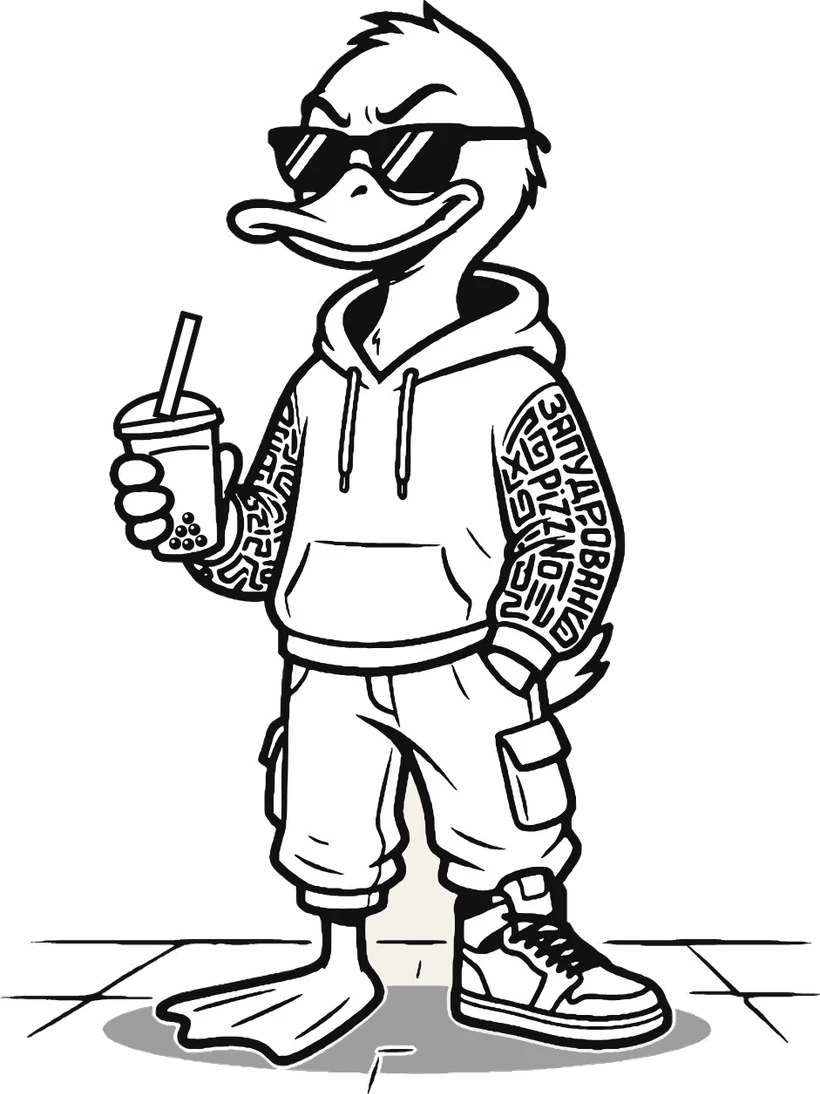
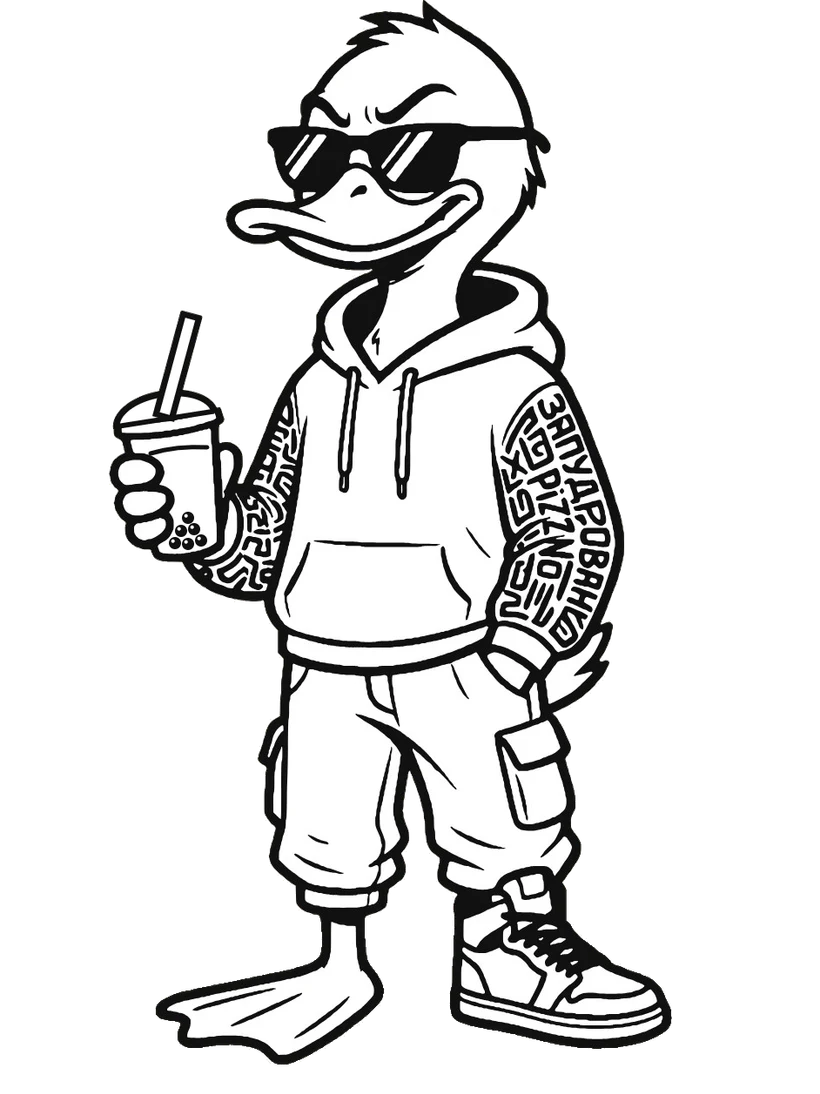
Static hero with a separate floor, poke-to-talk duck, tongue and shades frames

diff --git a/main.js b/main.js
@@ -47,138 +47,68 @@
   const top = document.querySelector('.top');
   let lastY = 0;
   addEventListener('scroll', () => {
-    if (pressing) return;
     const y = scrollY;
     top.classList.toggle('is-solid', y > 40);
     top.classList.toggle('is-hidden', y > 400 && y > lastY);
     lastY = y;
   }, { passive: true });
 
-  /* ---------- hero duck: the menu bar slides down like a ceiling and squashes it ---------- */
-  const track = document.querySelector('.hero-track');
+  /* ---------- hero duck: stands still, sways on its own floor, hops and talks when poked ---------- */
   const heroEl = document.querySelector('.hero');
   const avatar = document.querySelector('.avatar');
-  const topBar = document.querySelector('.top');
-  const duckImg = avatar.querySelector('.avatar__f');
-  const HEAD_TOP = 0.02;   // top of the duck's head as a share of its box
-  const MIN_SQUASH = 0.4;  // how flat the duck gets at the end of the press
-  const lerp = (a, b, t) => a + (b - a) * t;
-  function ceilingAt(p, barH, headY, floorY) {
-    // slab bottom: rest → touches the head → presses down to 40 % height → holds
-    const lowest = floorY - (floorY - headY) * MIN_SQUASH;
-    const k = [[0, barH], [0.16, headY], [0.75, lowest], [1, lowest]];
-    for (let i = 1; i < k.length; i++) {
-      if (p <= k[i][0]) { const t = (p - k[i - 1][0]) / (k[i][0] - k[i - 1][0]); return lerp(k[i - 1][1], k[i][1], t); }
-    }
-    return lowest;
-  }
-  function setPose(pose) {
-    if (avatar.dataset.pose === pose) return;
-    avatar.dataset.pose = pose;
-    heroEl.dataset.pose = pose;
-    avatar.classList.remove('is-hit', 'is-hi');
-    void avatar.offsetWidth;
-    if (pose !== 'idle') avatar.classList.add('is-hit');
-  }
-  function squashDuck(s) {
-    // cartoon squash: flatter and a bit wider, anchored at the feet
-    duckImg.style.transform = s >= 0.999 ? '' : `scale(${(1 + (1 - s) * 0.45).toFixed(3)}, ${s.toFixed(3)})`;
-  }
-  // The slab also flattens the big words it passes over (they squash toward their baseline).
-  const halves = [...document.querySelectorAll('.hero__half')];
-  function squashWords(slabBottom) {
-    halves.forEach((h) => {
-      const top = h.offsetTop + heroEl.getBoundingClientRect().top + h.parentElement.offsetTop;
-      const bottom = top + h.offsetHeight;
-      const MIN = 0.16;
-      if (slabBottom <= top) { h.style.transform = ''; return; }
-      const raw = (bottom - slabBottom) / h.offsetHeight;
-      // fully flattened words stick to the underside of the slab and ride down with it
-      const dy = raw < MIN ? slabBottom - (bottom - MIN * h.offsetHeight) : 0;
-      h.style.transform = `translateY(${dy.toFixed(1)}px) scaleY(${Math.max(MIN, raw).toFixed(3)})`;
-    });
-  }
-
-  let pressing = false;
-  function updatePress() {
-    if (reduced) return;
-    const room = track.offsetHeight - innerHeight;
-    const trackTop = track.getBoundingClientRect().top;
-    const p = room > 0 ? Math.min(1, Math.max(0, -trackTop / room)) : 0;
-    const inTrack = trackTop <= 0 && -trackTop < room;
-    const box = avatar.getBoundingClientRect();
-    const barH = topBar.offsetHeight;
-    const headY = box.top + box.height * HEAD_TOP, floorY = box.bottom;
-    if (p > 0.01 && inTrack) {
-      const bottom = Math.max(barH, ceilingAt(p, barH, headY, floorY));
-      topBar.classList.remove('is-return', 'is-hidden');
-      topBar.classList.add('is-press');
-      topBar.style.transform = `translateY(${Math.round(bottom - barH)}px)`;
-      pressing = true;
-      const s = Math.min(1, Math.max(MIN_SQUASH, (floorY - bottom) / (floorY - headY)));
-      squashDuck(s);
-      setPose(s > 0.995 ? 'idle' : 'press');
-      squashWords(bottom);
-    } else if (pressing) {
-      // leaving the hero: the slab flies back up and the duck pops back
-      pressing = false;
-      topBar.classList.add('is-return');
-      topBar.classList.remove('is-press');
-      topBar.style.transform = '';
-      squashWords(0);
-      squashDuck(1);
-      setPose('idle');
-    } else if (p <= 0.01) {
-      squashDuck(1);
-      setPose('idle');
-    }
-  }
-  let ticking = false;
-  const onPressScroll = () => { if (!ticking) { ticking = true; requestAnimationFrame(() => { ticking = false; updatePress(); }); } };
-  addEventListener('scroll', onPressScroll, { passive: true });
-  addEventListener('resize', onPressScroll);
-  updatePress();
-
-  // the duck leans a little toward the cursor
   const body = avatar.querySelector('.avatar__body');
+  const bubble = avatar.querySelector('.avatar__hi');
+  const LINES = {
+    uk: ['привіт!', 'бабл-ті?', 'кря!', 'пиши «АУДИТ»', 'автоматизую!', 'ще раз?'],
+    en: ['hi!', 'boba?', 'quack!', 'type “AUDIT”', 'I automate!', 'again?'],
+  };
+  let line = 0, hiTimer;
+  function poke() {
+    const list = LINES[root.lang === 'en' ? 'en' : 'uk'];
+    bubble.textContent = list[line % list.length];
+    line++;
+    avatar.classList.remove('is-hi');
+    void avatar.offsetWidth; // restart the hop
+    avatar.classList.add('is-hi');
+    clearTimeout(hiTimer);
+    hiTimer = setTimeout(() => { avatar.classList.remove('is-hi'); bubble.textContent = ''; }, 1800);
+  }
+  avatar.querySelector('.avatar__hit').addEventListener('click', poke);
+
+  // the duck leans toward the cursor; its floor stays put
   if (!reduced && matchMedia('(hover: hover)').matches) {
     heroEl.addEventListener('mousemove', (e) => {
       const x = e.clientX / innerWidth - 0.5;
-      body.style.rotate = `${(x * 6).toFixed(1)}deg`;
+      body.style.rotate = `${(x * 7).toFixed(1)}deg`;
     });
     heroEl.addEventListener('mouseleave', () => { body.style.rotate = ''; });
   }
 
-  let hiTimer;
-  function sayHi() {
-    if (avatar.dataset.pose !== 'idle') return;
-    avatar.classList.remove('is-hi');
-    void avatar.offsetWidth; // restart the hop animation
-    avatar.classList.add('is-hi');
-    clearTimeout(hiTimer);
-    hiTimer = setTimeout(() => avatar.classList.remove('is-hi'), 1800);
-  }
-  const hit = avatar.querySelector('.avatar__hit');
-  hit.addEventListener('mouseenter', sayHi);
-  hit.addEventListener('click', sayHi);
-
-  /* ---------- intro duck: waves on hover or tap, card tilts toward the cursor ---------- */
+  /* ---------- intro duck: sticks its tongue out on hover or tap ---------- */
   const face = document.querySelector('.face');
   let hovering = false;
   const setFace = (state) => { face.dataset.face = state; };
-  face.addEventListener('mouseenter', () => { hovering = true; setFace('wave'); });
-  face.addEventListener('mouseleave', () => { hovering = false; setFace('idle'); face.style.transform = ''; });
+  face.addEventListener('mouseenter', () => { hovering = true; setFace('tongue'); });
+  face.addEventListener('mouseleave', () => { hovering = false; setFace('idle'); });
   face.addEventListener('click', () => {
-    setFace('wave');
-    setTimeout(() => { if (!hovering) setFace('idle'); }, 1600);
+    setFace('tongue');
+    setTimeout(() => { if (!hovering) setFace('idle'); }, 1400);
   });
-  if (!reduced) {
-    face.addEventListener('mousemove', (e) => {
-      const r = face.getBoundingClientRect();
-      const x = (e.clientX - r.left) / r.width - 0.5, y = (e.clientY - r.top) / r.height - 0.5;
-      face.style.transform = `perspective(900px) rotateY(${x * 8}deg) rotateX(${-y * 6}deg)`;
-    });
+
+  /* ---------- thanks duck: grabs the shades and lifts them ---------- */
+  const shades = document.querySelector('.shades');
+  let shadeTimers = [];
+  const clearShades = () => { shadeTimers.forEach(clearTimeout); shadeTimers = []; };
+  function liftShades(hold) {
+    clearShades();
+    shades.dataset.shades = 'grab';
+    shadeTimers.push(setTimeout(() => { shades.dataset.shades = 'lift'; }, 260));
+    if (hold) shadeTimers.push(setTimeout(() => { shades.dataset.shades = 'idle'; }, 2200));
   }
+  shades.addEventListener('mouseenter', () => liftShades(false));
+  shades.addEventListener('mouseleave', () => { clearShades(); shades.dataset.shades = 'idle'; });
+  shades.addEventListener('click', () => liftShades(true));
+  shades.addEventListener('keydown', (e) => { if (e.key === 'Enter' || e.key === ' ') { e.preventDefault(); liftShades(true); } });
 
   /* ---------- mobile: swipe carousels get dots + a "swipe" hint ---------- */
   document.querySelectorAll('[data-swipe]').forEach((rail) => {
@@ -207,7 +137,7 @@
   const tabs = [...tabbar.querySelectorAll('[data-tab]')];
   const sections = tabs.map((t) => document.getElementById(t.dataset.tab));
   function syncTabs() {
-    tabbar.classList.toggle('is-on', scrollY > track.offsetHeight - innerHeight * 0.4);
+    tabbar.classList.toggle('is-on', scrollY > heroEl.offsetHeight - innerHeight * 0.4);
     const mid = innerHeight * 0.45;
     let active = null;
     sections.forEach((s, i) => { const r = s.getBoundingClientRect(); if (r.top < mid && r.bottom > mid) active = tabs[i]; });
@@ -241,6 +171,7 @@
       hero.querySelectorAll('.reveal').forEach((r) => r.classList.add('is-in'));
       avatar.classList.add('is-drop');
       setTimeout(() => avatar.classList.remove('is-drop'), 1100);
+      setTimeout(poke, reduced ? 0 : 1000); // says hi once after landing
     }, reduced ? 0 : 260);
     setTimeout(() => loader.remove(), 1100);
     startLenis();

diff --git a/index.html b/index.html
@@ -54,7 +54,6 @@
 <main id="top">
 
   <!-- HERO: big split word with a figure in the middle (ref 1) -->
-  <div class="hero-track">
   <section class="slide hero" aria-label="Портфоліо">
     <svg class="squig squig--a" aria-hidden="true"><use href="#squig"/></svg>
     <svg class="squig squig--b" aria-hidden="true"><use href="#squig"/></svg>
@@ -63,13 +62,14 @@
         <span class="mask hero__word"><span data-en="Port">Порт</span></span>
         <small class="reveal" data-en="Websites · Apps">Сайти · Застосунки</small>
       </div>
-      <figure class="hero__figure avatar reveal" data-pose="idle">
-        <button type="button" class="avatar__hit" aria-label="Привітатися з качкою / Say hi to the duck"></button>
+      <figure class="hero__figure avatar reveal">
+        <img class="avatar__floor" src="img/duck-floor.webp" alt="" width="820" height="1094">
+        <button type="button" class="avatar__hit" aria-label="Тицьни качку / Poke the duck"></button>
         <div class="avatar__squash"><div class="avatar__body">
           <img class="avatar__f" src="img/duck-full.webp" alt="Качка pizno, талісман студії" width="820" height="1094" fetchpriority="high">
         </div></div>
-        <span class="avatar__hi script" aria-hidden="true" data-en="hi!">привіт!</span>
-        <span class="hero__note script" aria-hidden="true" data-en="scroll ↓">гортай ↓</span>
+        <span class="avatar__hi script" aria-live="polite"></span>
+        <span class="hero__note script" aria-hidden="true" data-en="poke me ↑">тицьни мене ↑</span>
       </figure>
       <div class="hero__half hero__half--r">
         <span class="mask hero__word"><span data-en="folio">фоліо</span></span>
@@ -81,7 +81,6 @@
       <a class="btn btn--accent reveal" href="https://t.me/Pa9krat" target="_blank" rel="noopener"><svg aria-hidden="true"><use href="#i-tg"/></svg><span data-en="Free audit on Telegram">Безкоштовний аудит у Telegram</span></a>
     </div>
   </section>
-  </div>
 
   <div class="tape" aria-hidden="true"><div class="tape__run">
     <span data-en="Websites">Сайти</span><i>✦</i><span data-en="Apps">Застосунки</span><i>✦</i><span data-en="Telegram bots">Telegram-боти</span><i>✦</i><span data-en="Requests to Telegram">Заявки в Telegram</span><i>✦</i><span data-en="AI assistants">ШІ-асистенти</span><i>✦</i><span data-en="Automation">Автоматизації</span><i>✦</i>
@@ -93,7 +92,8 @@
     <div class="intro">
       <div class="intro__card reveal">
         <div class="intro__mark face" data-face="idle">
-          <img class="face__f" src="img/duck-waist.webp" alt="Качка pizno з бабл-ті" width="760" height="918" loading="lazy">
+          <img class="face__f" data-f="idle" src="img/duck-waist.webp" alt="Качка pizno з бабл-ті" width="760" height="900" loading="lazy">
+          <img class="face__f" data-f="tongue" src="img/duck-tongue.webp" alt="" width="760" height="900" loading="lazy">
           <span class="script face__tag" data-en="hover me">наведи на мене</span>
         </div>
       </div>
@@ -386,7 +386,11 @@
     <svg class="squig" style="top:16%;left:10%;transform:rotate(-18deg)" aria-hidden="true"><use href="#squig"/></svg>
     <svg class="squig" style="top:30%;right:9%;transform:rotate(20deg)" aria-hidden="true"><use href="#squig"/></svg>
     <div class="wrap">
-      <img class="thanks__duck reveal" src="img/duck-badge.webp" alt="" width="200" height="202" loading="lazy">
+      <figure class="thanks__duck shades reveal" data-shades="idle" tabindex="0" aria-label="Качка знімає окуляри / The duck lifts its shades">
+        <img data-s="idle" src="img/duck-bust.webp" alt="" width="460" height="500" loading="lazy">
+        <img data-s="grab" src="img/duck-grab.webp" alt="" width="460" height="500" loading="lazy">
+        <img data-s="lift" src="img/duck-lift.webp" alt="" width="460" height="500" loading="lazy">
+      </figure>
       <h2 class="thanks__big" id="thanks-title"><span class="mask"><span data-en="Thank you">Дякую</span></span><span class="script reveal" data-en="for your attention">за увагу</span></h2>
       <p class="thanks__sub reveal" data-en="Tell me about your business. I'll show you where you're losing customers and what can be automated. Message &quot;AUDIT&quot; on Telegram.">Розкажіть про свій бізнес. Покажу, де ви втрачаєте клієнтів і що можна автоматизувати. Напишіть «АУДИТ» у Telegram.</p>
       <div class="thanks__cta reveal">

diff --git a/styles.css b/styles.css
@@ -517,3 +517,33 @@ html, body { overflow-x: clip; }                       /* the tilted tape must n
 .cat__lead { grid-column: 9 / span 4; }
 @media (max-width: 900px) { .cat__title, .cat__lead { grid-column: 1 / -1; } }
 @media (max-width: 760px) { .cat__title { font-size: clamp(1.9rem, 9.4vw, 3.2rem); } }
+
+/* ================= v3: static hero, separate floor, new duck frames ================= */
+.hero-track { height: auto; }
+.hero { min-height: 100svh; height: auto; }
+.avatar__floor { position: absolute; inset: 0; width: 100%; height: 100%; object-fit: contain; object-position: bottom; pointer-events: none; user-select: none; }
+.avatar__squash { z-index: 1; }
+.avatar .avatar__body { animation: sway 3.2s ease-in-out infinite; }
+.avatar.is-hi .avatar__squash { animation: hop 0.6s var(--spring); }
+@keyframes hop { 0% { transform: none; } 35% { transform: translateY(-7%) scale(0.97, 1.04); } 70% { transform: translateY(0) scale(1.05, 0.95); } 100% { transform: none; } }
+.avatar__hi:empty { display: none; }
+.avatar.is-hi .hero__note { opacity: 0; }
+.hero__note { bottom: 46%; }
+
+/* intro: tongue on hover */
+.face .face__f { opacity: 0; transition: opacity 0.12s; }
+.face[data-face="idle"] [data-f="idle"], .face[data-face="tongue"] [data-f="tongue"] { opacity: 1; }
+.face[data-face="tongue"] .face__f { animation: none; }
+.face[data-face="tongue"] .face__tag { opacity: 0; }
+.face[data-face="tongue"] { transform: rotate(-1.5deg) scale(1.02); }
+
+/* thanks: shades lift */
+.shades { position: relative; width: clamp(200px, 22vw, 290px); aspect-ratio: 460 / 500; margin: 0 auto 6px; cursor: pointer; outline-offset: 6px; }
+.shades img { position: absolute; inset: 0; width: 100%; height: 100%; opacity: 0; transition: opacity 0.1s; user-select: none; pointer-events: none; }
+.shades[data-shades="idle"] [data-s="idle"], .shades[data-shades="grab"] [data-s="grab"], .shades[data-shades="lift"] [data-s="lift"] { opacity: 1; }
+.shades[data-shades="lift"] { animation: pop 0.35s var(--spring); }
+@keyframes pop { 0% { transform: scale(0.96); } 100% { transform: none; } }
+@media (max-width: 760px) {
+  .hero__note { left: 70%; bottom: 52%; }
+}
+@media (prefers-reduced-motion: reduce) { .avatar .avatar__body { animation: none; } }
